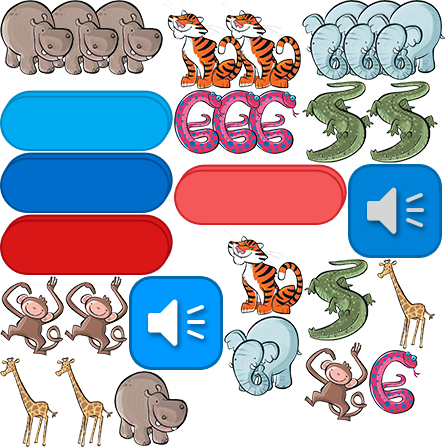
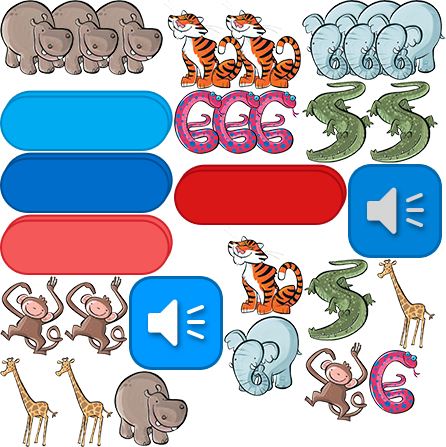
鸡蛋位置修改

Changed region(s): [[0.3789, 0.349, 0.787, 0.5235], [0.0, 0.4653, 0.4081, 0.6398]]

diff --git a/bin/js/ui/layaUI.max.all.js b/bin/js/ui/layaUI.max.all.js
@@ -12,6 +12,22 @@ var View = laya.ui.View;
 var Dialog = laya.ui.Dialog;
 var ui;
 (function (ui) {
+    var BOBalloonUI = /** @class */ (function (_super) {
+        __extends(BOBalloonUI, _super);
+        function BOBalloonUI() {
+            return _super.call(this) || this;
+        }
+        BOBalloonUI.prototype.createChildren = function () {
+            View.regComponent("Text", laya.display.Text);
+            _super.prototype.createChildren.call(this);
+            this.createView(ui.BOBalloonUI.uiView);
+        };
+        BOBalloonUI.uiView = { "type": "View", "props": { "centerY": 0, "centerX": 0 }, "child": [{ "type": "Image", "props": { "var": "ball0", "skin": "BalloonOpposites/left-1-0.png", "centerY": 0, "centerX": 0 } }, { "type": "Image", "props": { "var": "ball1", "skin": "BalloonOpposites/left-1-1.png", "centerY": 0, "centerX": 0 }, "child": [{ "type": "Image", "props": { "y": 50, "x": 28, "width": 124, "skin": "template/Text/TextBox.png", "height": 60 } }, { "type": "Text", "props": { "y": 54, "x": 38, "width": 100, "var": "ballword", "text": "text", "height": 50, "fontSize": 40, "font": "FF", "color": "#000", "align": "center" } }] }] };
+        return BOBalloonUI;
+    }(View));
+    ui.BOBalloonUI = BOBalloonUI;
+})(ui || (ui = {}));
+(function (ui) {
     var BalloonDisappearUI = /** @class */ (function (_super) {
         __extends(BalloonDisappearUI, _super);
         function BalloonDisappearUI() {
@@ -42,22 +58,6 @@ var ui;
         return BalloonOppositesUI;
     }(View));
     ui.BalloonOppositesUI = BalloonOppositesUI;
-})(ui || (ui = {}));
-(function (ui) {
-    var BOBalloonUI = /** @class */ (function (_super) {
-        __extends(BOBalloonUI, _super);
-        function BOBalloonUI() {
-            return _super.call(this) || this;
-        }
-        BOBalloonUI.prototype.createChildren = function () {
-            View.regComponent("Text", laya.display.Text);
-            _super.prototype.createChildren.call(this);
-            this.createView(ui.BOBalloonUI.uiView);
-        };
-        BOBalloonUI.uiView = { "type": "View", "props": { "centerY": 0, "centerX": 0 }, "child": [{ "type": "Image", "props": { "var": "ball0", "skin": "BalloonOpposites/left-1-0.png", "centerY": 0, "centerX": 0 } }, { "type": "Image", "props": { "var": "ball1", "skin": "BalloonOpposites/left-1-1.png", "centerY": 0, "centerX": 0 }, "child": [{ "type": "Image", "props": { "y": 50, "x": 28, "width": 124, "skin": "template/Text/TextBox.png", "height": 60 } }, { "type": "Text", "props": { "y": 54, "x": 38, "width": 100, "var": "ballword", "text": "text", "height": 50, "fontSize": 40, "font": "FF", "color": "#000", "align": "center" } }] }] };
-        return BOBalloonUI;
-    }(View));
-    ui.BOBalloonUI = BOBalloonUI;
 })(ui || (ui = {}));
 (function (ui) {
     var BubbleUI = /** @class */ (function (_super) {

diff --git a/src/ui/layaUI.max.all.ts b/src/ui/layaUI.max.all.ts
@@ -2,6 +2,25 @@
 import View=laya.ui.View;
 import Dialog=laya.ui.Dialog;
 module ui {
+    export class BOBalloonUI extends View {
+		public ball0:Laya.Image;
+		public ball1:Laya.Image;
+		public ballword:laya.display.Text;
+
+        public static  uiView:any ={"type":"View","props":{"centerY":0,"centerX":0},"child":[{"type":"Image","props":{"var":"ball0","skin":"BalloonOpposites/left-1-0.png","centerY":0,"centerX":0}},{"type":"Image","props":{"var":"ball1","skin":"BalloonOpposites/left-1-1.png","centerY":0,"centerX":0},"child":[{"type":"Image","props":{"y":50,"x":28,"width":124,"skin":"template/Text/TextBox.png","height":60}},{"type":"Text","props":{"y":54,"x":38,"width":100,"var":"ballword","text":"text","height":50,"fontSize":40,"font":"FF","color":"#000","align":"center"}}]}]};
+        constructor(){ super()}
+        createChildren():void {
+        			View.regComponent("Text",laya.display.Text);
+
+            super.createChildren();
+            this.createView(ui.BOBalloonUI.uiView);
+
+        }
+
+    }
+}
+
+module ui {
     export class BalloonDisappearUI extends View {
 		public shake:Laya.FrameAnimation;
 		public blast:Laya.FrameAnimation;
@@ -37,25 +56,6 @@ module ui {
 
             super.createChildren();
             this.createView(ui.BalloonOppositesUI.uiView);
-
-        }
-
-    }
-}
-
-module ui {
-    export class BOBalloonUI extends View {
-		public ball0:Laya.Image;
-		public ball1:Laya.Image;
-		public ballword:laya.display.Text;
-
-        public static  uiView:any ={"type":"View","props":{"centerY":0,"centerX":0},"child":[{"type":"Image","props":{"var":"ball0","skin":"BalloonOpposites/left-1-0.png","centerY":0,"centerX":0}},{"type":"Image","props":{"var":"ball1","skin":"BalloonOpposites/left-1-1.png","centerY":0,"centerX":0},"child":[{"type":"Image","props":{"y":50,"x":28,"width":124,"skin":"template/Text/TextBox.png","height":60}},{"type":"Text","props":{"y":54,"x":38,"width":100,"var":"ballword","text":"text","height":50,"fontSize":40,"font":"FF","color":"#000","align":"center"}}]}]};
-        constructor(){ super()}
-        createChildren():void {
-        			View.regComponent("Text",laya.display.Text);
-
-            super.createChildren();
-            this.createView(ui.BOBalloonUI.uiView);
 
         }
 

diff --git a/bin/js/HitEgg/HitEggMain.js b/bin/js/HitEgg/HitEggMain.js
@@ -111,6 +111,8 @@ var HitEggMain = /** @class */ (function (_super) {
             var line1Width = 1024 / line1Num;
             var line2Width = 1024 / line2Num;
             var line3Width = 1024 / line3Num;
+            var lineHeight = 256;
+            var upHeight = 30;
             for (var _b = 0, eggs_3 = eggs; _b < eggs_3.length; _b++) {
                 var egg = eggs_3[_b];
                 var i = Math.floor(Math.random() * indexes.length); // 给单词一个随机的位置
@@ -118,21 +120,21 @@ var HitEggMain = /** @class */ (function (_super) {
                 indexes.splice(i, 1);
                 if (index + 1 <= line1Num) {
                     egg.x = line1Width * index + (line1Width - egg.width) / 2;
-                    if (line1Num == 4 && index == 0) {
-                        egg.x += 50;
-                    }
-                    egg.y = (256 - egg.height) / 2;
+                    // if(line1Num == 4 && index == 0) {
+                    //     egg.x += 50;
+                    // }
+                    egg.y = (lineHeight - egg.height) / 2 + 30;
                 }
                 else if (index + 1 > line1Num && index + 1 <= line1Num + line2Num) {
                     egg.x = line2Width * (index - line1Num) + (line2Width - egg.width) / 2;
-                    egg.y = 256 + (256 - egg.height) / 2;
+                    egg.y = lineHeight - upHeight + (lineHeight - egg.height) / 2 + 15;
                 }
                 else {
                     egg.x = line3Width * (index - line1Num - line2Num) + (line3Width - egg.width) / 2;
-                    egg.y = 512 + (256 - egg.height) / 2;
-                    if (line3Num >= 3 && index == eggs.length - 1) {
-                        egg.y -= 20;
-                    }
+                    egg.y = (lineHeight - upHeight) * 2 + (lineHeight - egg.height) / 2;
+                    // if(line3Num >= 3 && index == eggs.length - 1) {
+                    //     egg.y -= 20;
+                    // }
                 }
                 this.addChild(egg);
             }

diff --git a/src/HitEgg/HitEggMain.ts b/src/HitEgg/HitEggMain.ts
@@ -105,27 +105,31 @@ class HitEggMain extends ui.HitEggUI {
             let line1Width = 1024 / line1Num;
             let line2Width = 1024 / line2Num;
             let line3Width = 1024 / line3Num;
+
+            let lineHeight = 256;
+            let upHeight = 30;
+
             for(let egg of eggs) {
                 let i: number = Math.floor(Math.random() * indexes.length); // 给单词一个随机的位置
                 let index = indexes[i];
                 indexes.splice(i, 1);
                 if(index + 1 <= line1Num) {
                     egg.x = line1Width * index + (line1Width - egg.width) / 2;
-                    if(line1Num == 4 && index == 0) {
-                        egg.x += 50;
-                    }
-                    egg.y = (256 - egg.height) / 2;
+                    // if(line1Num == 4 && index == 0) {
+                    //     egg.x += 50;
+                    // }
+                    egg.y = (lineHeight - egg.height) / 2 + 30;
                 }
                 else if(index + 1 > line1Num && index + 1 <= line1Num + line2Num){
                     egg.x = line2Width * (index - line1Num) + (line2Width - egg.width) / 2;
-                    egg.y = 256 + (256 - egg.height) / 2;
+                    egg.y = lineHeight - upHeight + (lineHeight - egg.height) / 2 + 15;
                 }
                 else {
                     egg.x = line3Width * (index - line1Num - line2Num) + (line3Width - egg.width) / 2;
-                    egg.y = 512 + (256 - egg.height) / 2;
-                    if(line3Num >= 3 && index == eggs.length - 1) {
-                        egg.y -= 20;
-                    }
+                    egg.y = (lineHeight-upHeight)*2 + (lineHeight - egg.height) / 2;
+                    // if(line3Num >= 3 && index == eggs.length - 1) {
+                    //     egg.y -= 20;
+                    // }
                 }
                 this.addChild(egg);
             }

diff --git a/bin/js/Turntable/TurntableMain.js b/bin/js/Turntable/TurntableMain.js
@@ -33,7 +33,7 @@ var TurntableMain = /** @class */ (function (_super) {
         if (Turntable.currentTurn < totalLength && !Turntable.gameChecking) {
             Laya.SoundManager.playSound("res/audio/turnTable.wav", 1);
             var _index = Turntable.randomTurn[Turntable.currentTurn];
-            var _rotation = 1800 * _index + (_index * 360) / totalLength;
+            var _rotation = 1800 * (Turntable.currentTurn + 1) + (_index * 360) / totalLength;
             Laya.Tween.to(this.table, { rotation: _rotation }, 3500, Laya.Ease.quartOut);
             Laya.timer.once(3500, this, function () {
                 Turntable.currentTurn++;

diff --git a/src/Turntable/TurntableMain.ts b/src/Turntable/TurntableMain.ts
@@ -27,7 +27,7 @@ class TurntableMain extends ui.TurntableUI {
             Laya.SoundManager.playSound("res/audio/turnTable.wav", 1);
             
             let _index = Turntable.randomTurn[Turntable.currentTurn];
-            let _rotation =1800 * _index + (_index * 360) / totalLength;
+            let _rotation =1800 * (Turntable.currentTurn+1) + (_index * 360) / totalLength;
             Laya.Tween.to(this.table,{rotation:_rotation},3500,Laya.Ease.quartOut);
             Laya.timer.once(3500,this,function(){
                 Turntable.currentTurn++;

diff --git a/bin/js/Turntable.js b/bin/js/Turntable.js
@@ -58,6 +58,7 @@ var Turntable = /** @class */ (function () {
         // Turntable.turntableMain.startTable();
     };
     Turntable.initTable = function () {
+        Turntable.turntableMain.table.rotation = 0;
         // 清空
         Turntable.turntableMain.table.removeChildren(0, Turntable.turntableMain.table.numChildren);
         var wordLength = Turntable.gameConfig.words.length;

diff --git a/src/Turntable.ts b/src/Turntable.ts
@@ -71,6 +71,7 @@ class Turntable {
     }
 
     private static initTable(){
+        Turntable.turntableMain.table.rotation = 0;
         // 清空
         Turntable.turntableMain.table.removeChildren(0,Turntable.turntableMain.table.numChildren);
         let wordLength = Turntable.gameConfig.words.length;

diff --git a/src/Index.ts b/src/Index.ts
@@ -1,7 +1,7 @@
 // 程序入口，本工程仅用于切换各个动画进行测试
 
 // 游戏名称，修改这个变量值来切换不同游戏，
-let gameName = "balloon"; 
+let gameName = "egg"; 
 
 if(gameName == "balloon") {
     //气球爆炸消失游戏
